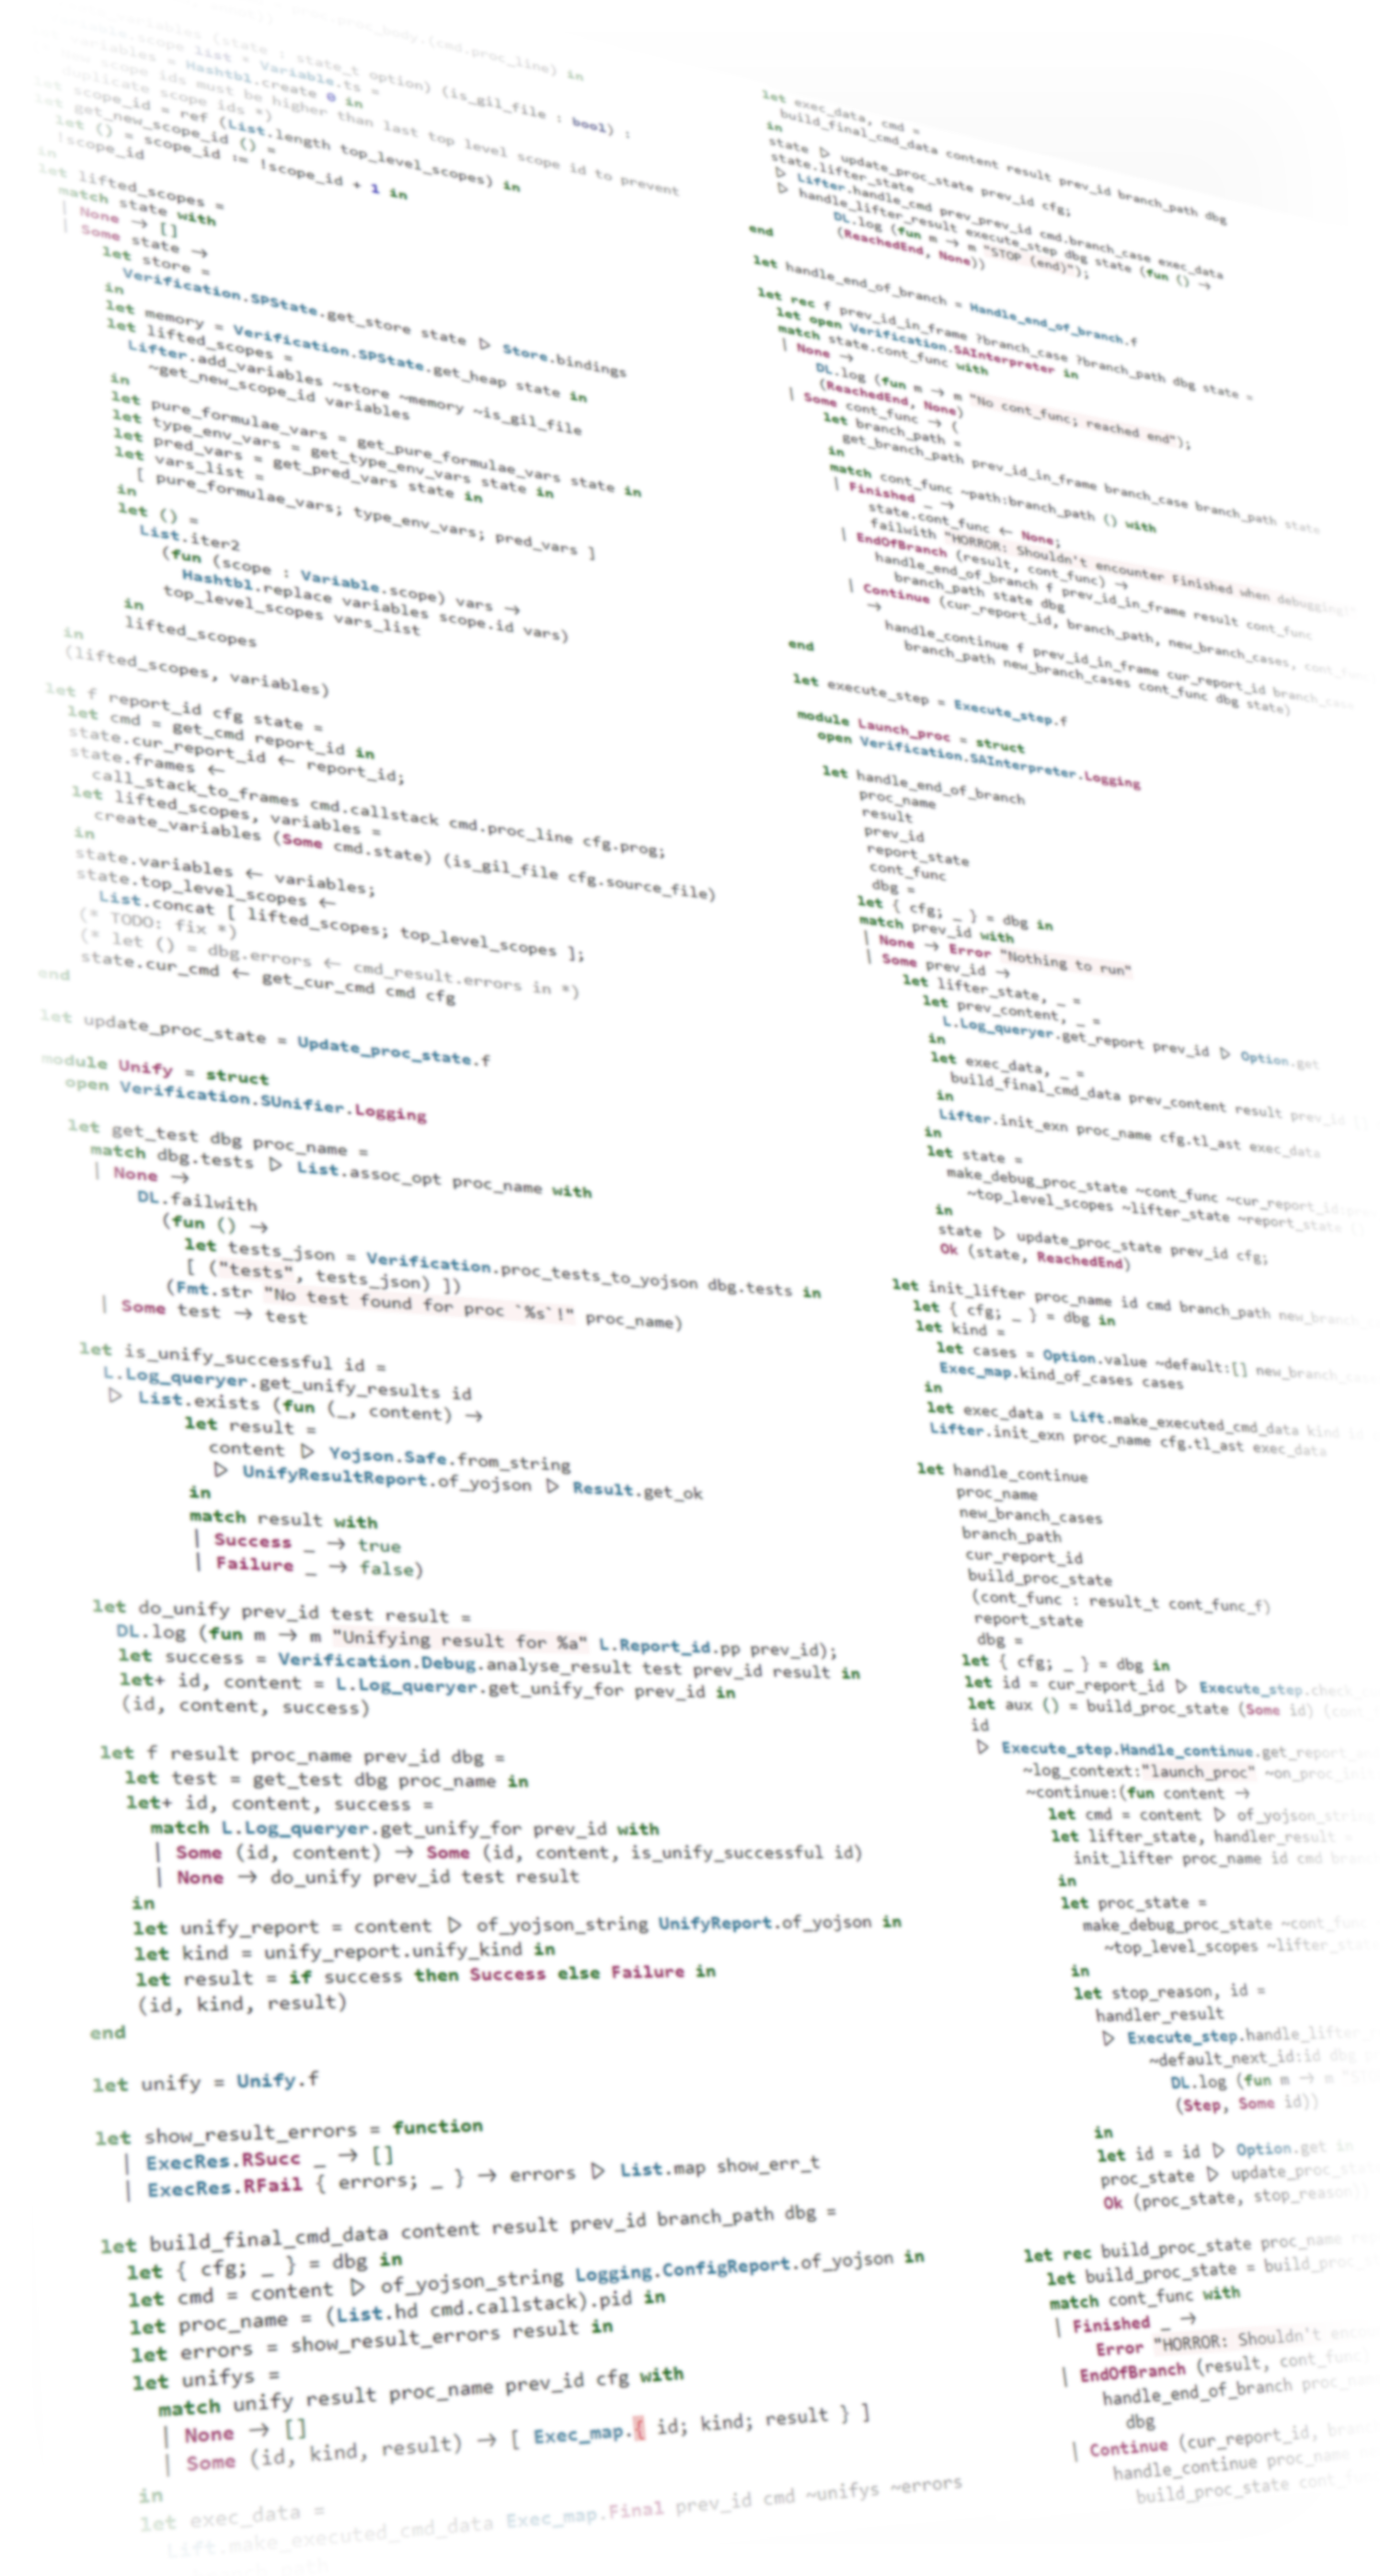
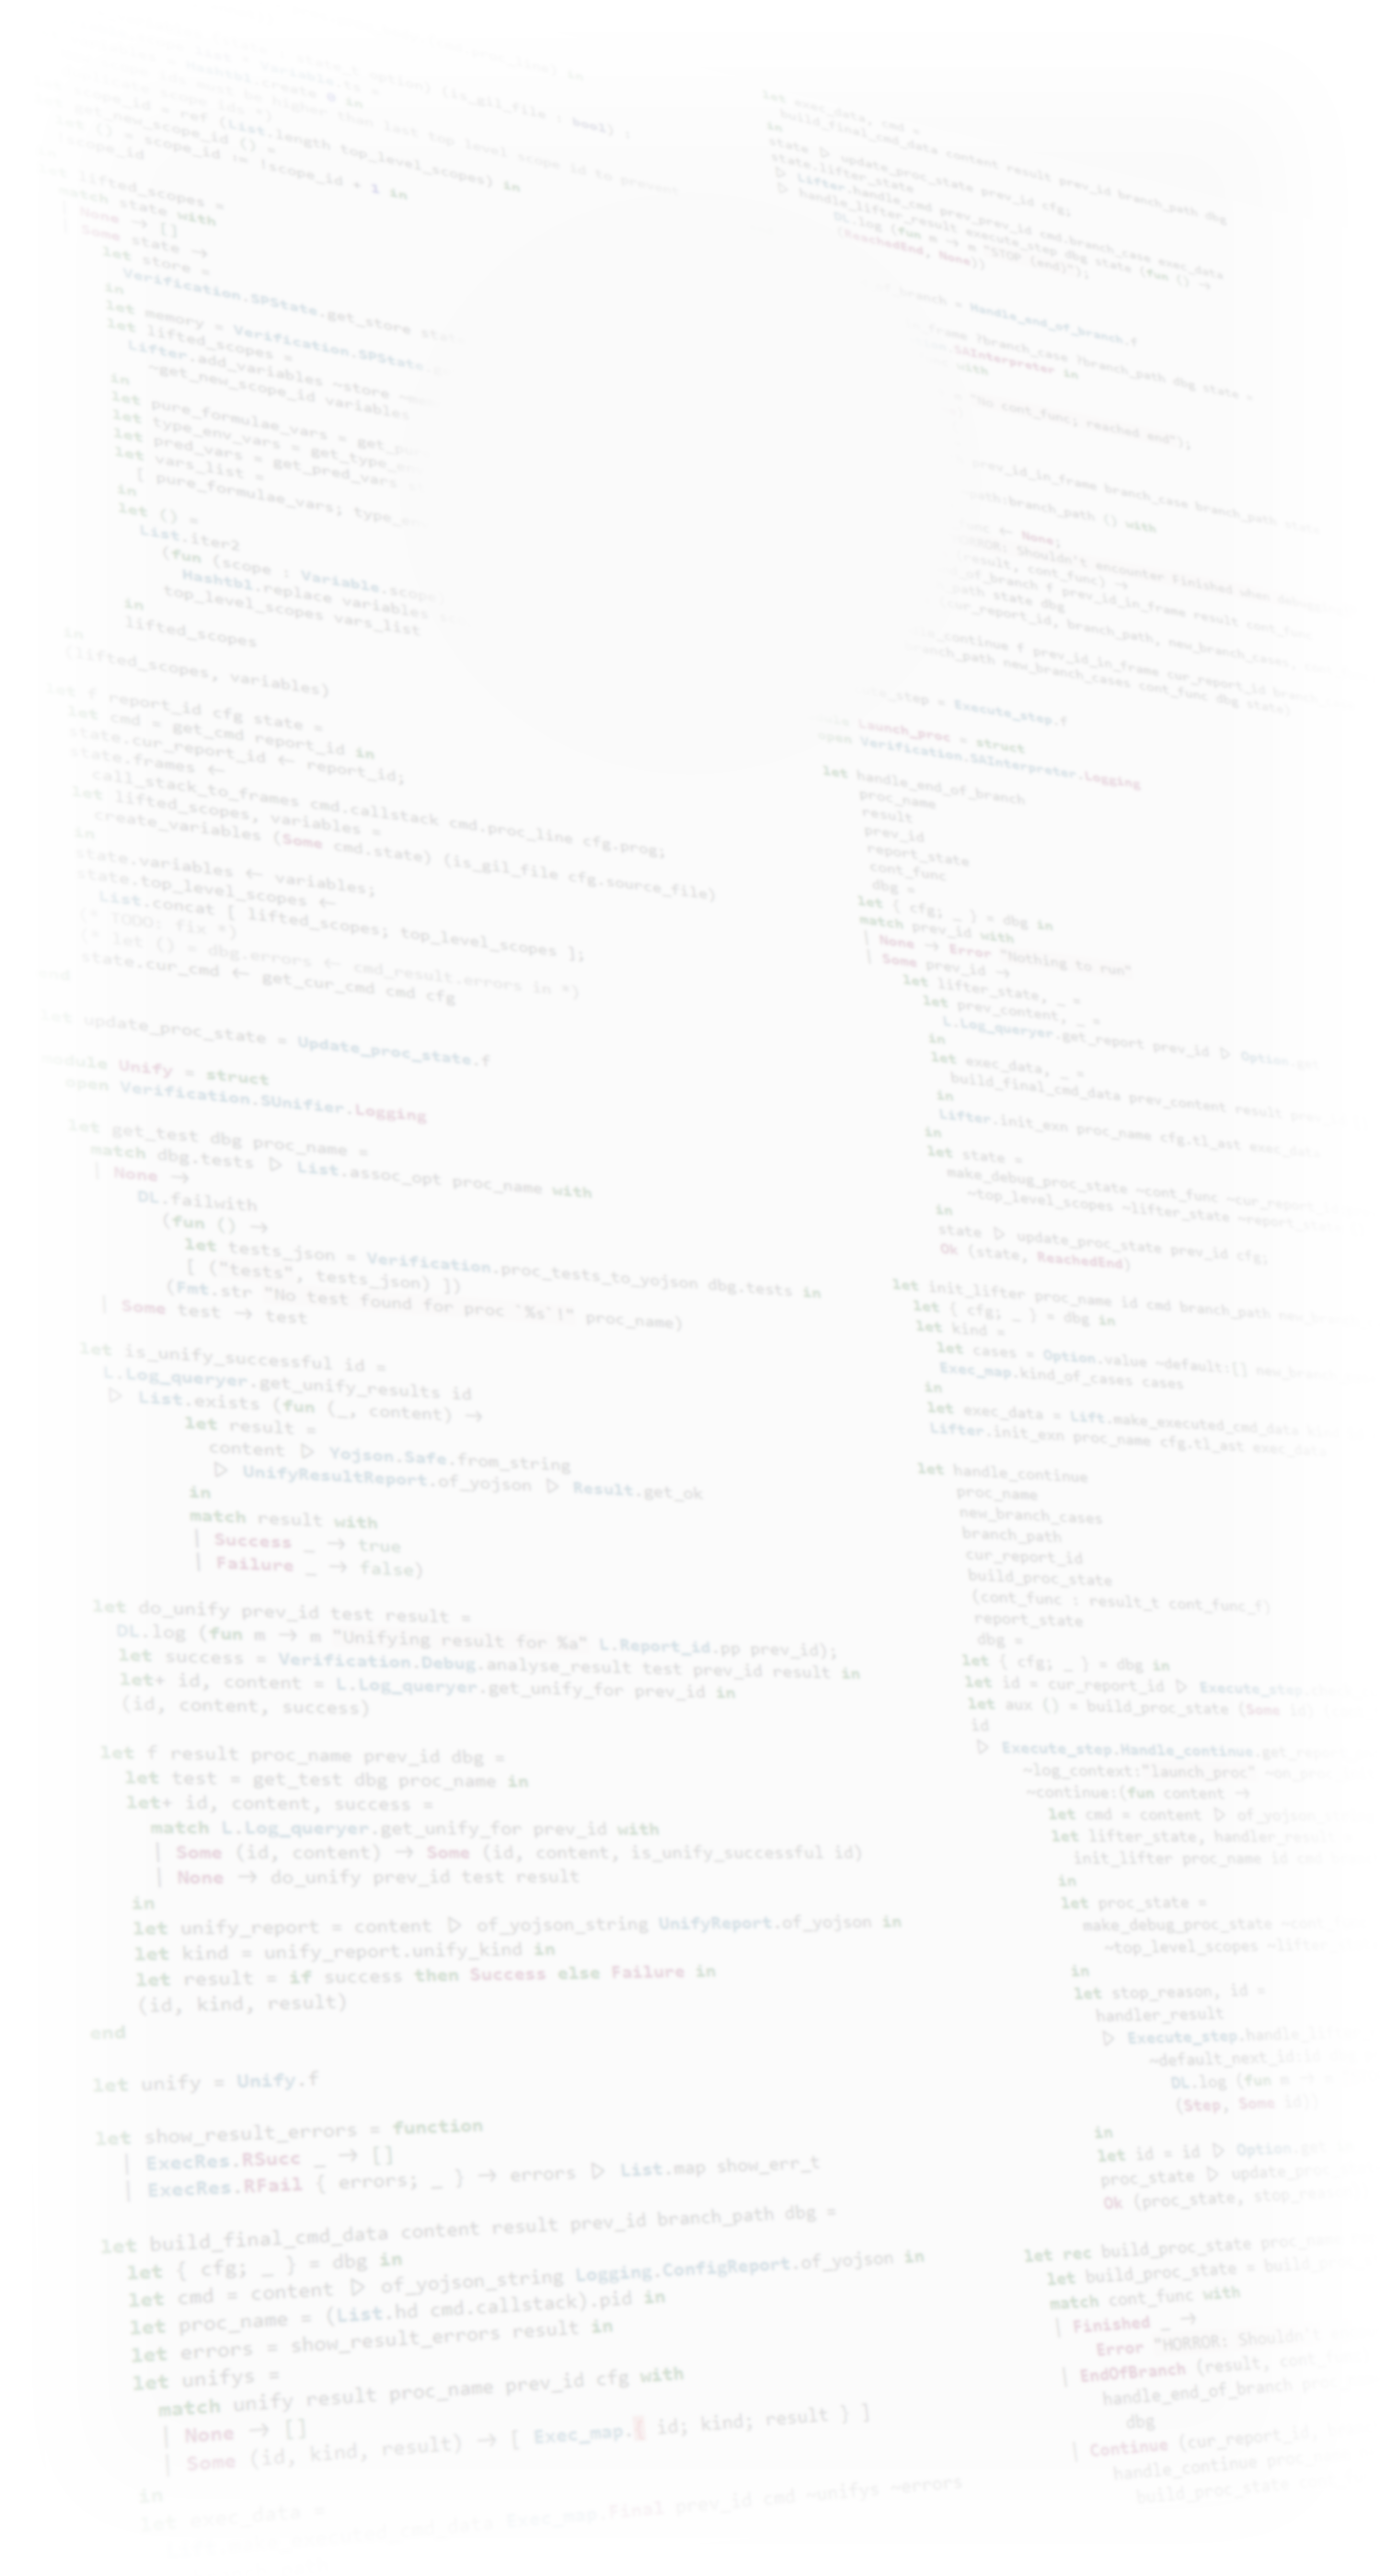
Bake covers into background

diff --git a/src/global.css b/src/global.css
@@ -28,35 +28,15 @@
 }
 
 body {
+  --bg-offset: calc((var(--vw, 1vw) - 1vw) * 50);
   background-image: url("/images/code bg.png");
   background-repeat: no-repeat;
-  background-position: left 50% top -400px;
+  background-position: left calc(50% + var(--bg-offset)) top -400px;
   font-family: ui-sans-serif, system-ui, -apple-system, BlinkMacSystemFont, sans-serif;
   padding: 10px 10px 20px 10px;
   min-width: 600px;
   box-sizing: border-box;
   margin: 0;
-}
-
-.bg-cover {
-  position: fixed;
-  z-index: -100;
-  top: 0;
-  left: 0;
-  width: calc(var(--vw, 1vw) * 100);
-  height: calc(var(--vh, 1vh) * 100);
-  background-color: var(--page-bg);
-  opacity: 0.8;
-}
-
-.bg-header-cover {
-  position: absolute;
-  top: 0;
-  left: 0;
-  width: calc(var(--vw, 1vw) * 100);
-  height: calc(var(--vh, 1vh) * 100);
-  z-index: -99;
-  background: radial-gradient(350px at left 50% top 100px, var(--page-bg) 0%, var(--page-bg) 80%, transparent 100%);
 }
 
 main {

diff --git a/src/routes/layout.tsx b/src/routes/layout.tsx
@@ -13,8 +13,7 @@ export const updateScale = () => {
     pendingUpdate = false;
     const root = document.querySelector(':root') as HTMLElement | null
     if (root === null) return;
-    root.style.setProperty('--vw', `${window.visualViewport!.width * 0.01}px`);
-    root.style.setProperty('--vh', `${window.visualViewport!.height * 0.01}px`);
+    root.style.setProperty('--vw', `${window.innerWidth * 0.01}px`);
   });
 };
 
@@ -27,8 +26,6 @@ export default component$(() => {
   useClientEffect$(setupUpdateScale);
   return (
     <div class="body-inner">
-      <div class="bg-cover" />
-      <div class="bg-header-cover" />
       <Header />
       <Slot />
       <Footer />
